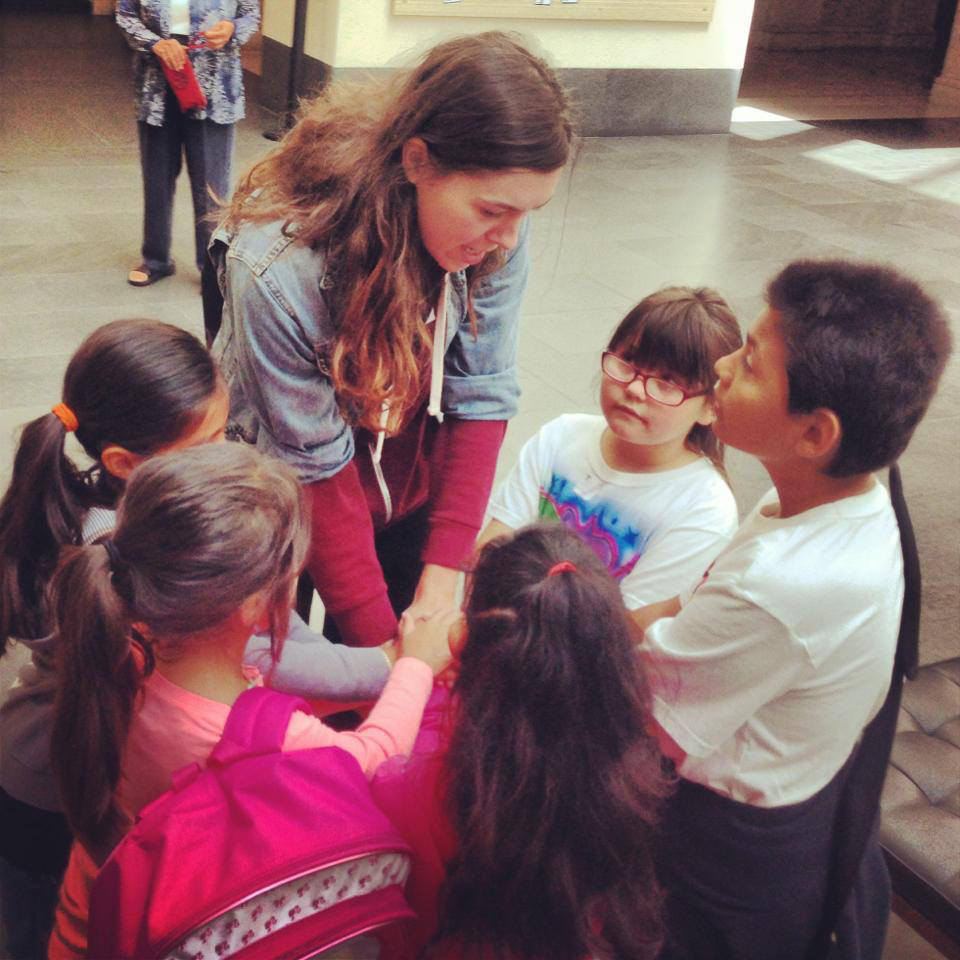
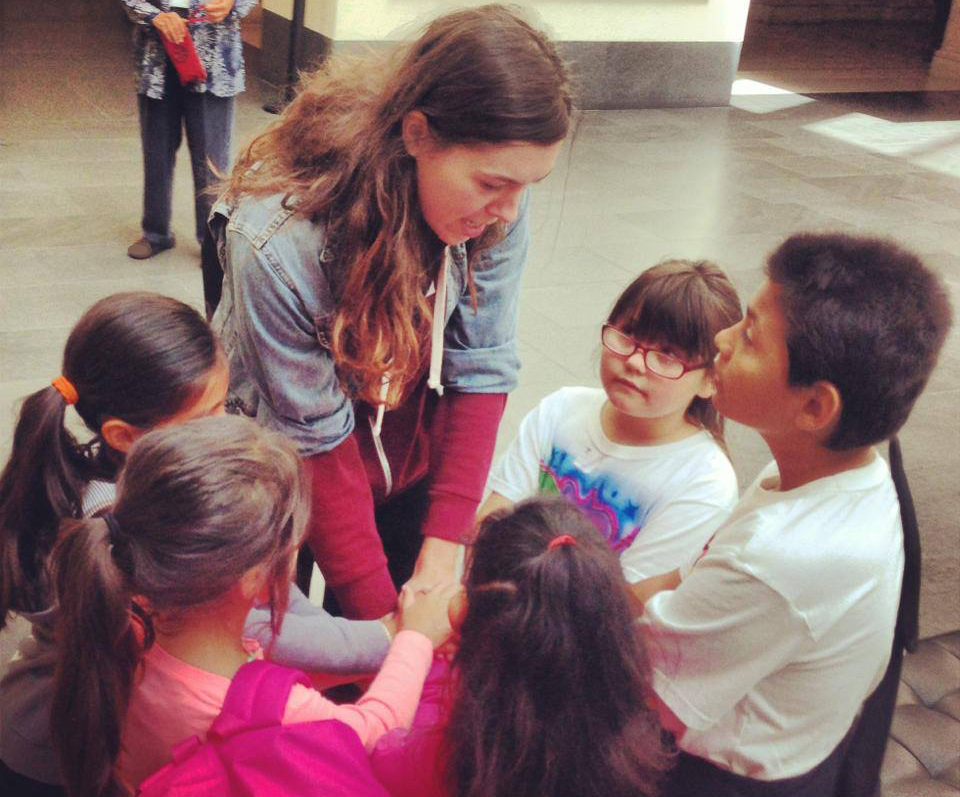
fourth push, added like menu link and adjusted volunteer img sizing.

diff --git a/index.html b/index.html
@@ -227,7 +227,7 @@
           <!-- Volunteer -->
           <div class="col-sm-6 col-md-12">
             <div class="thumbnail">
-              <img data-src="holder.js/100%x200" alt="100%x200" src="pictures/volunteer.jpg" data-holder-rendered="true" style="display: block;">
+              <img data-src="holder.js/100%x200" alt="100%x200" width="100%" src="pictures/volunteer.jpg" data-holder-rendered="true" style="display: block;">
               <div class="caption">
                 <h3>Volunteers!</h3>
                 <p>Want to make a difference? Then volunteer and tutor with us! No experience necessary, just have a passion for working with kids, and an eagerness to nurture a joy in learning! We are always looking for enthusiastic tutors who can work weekly. </p>
